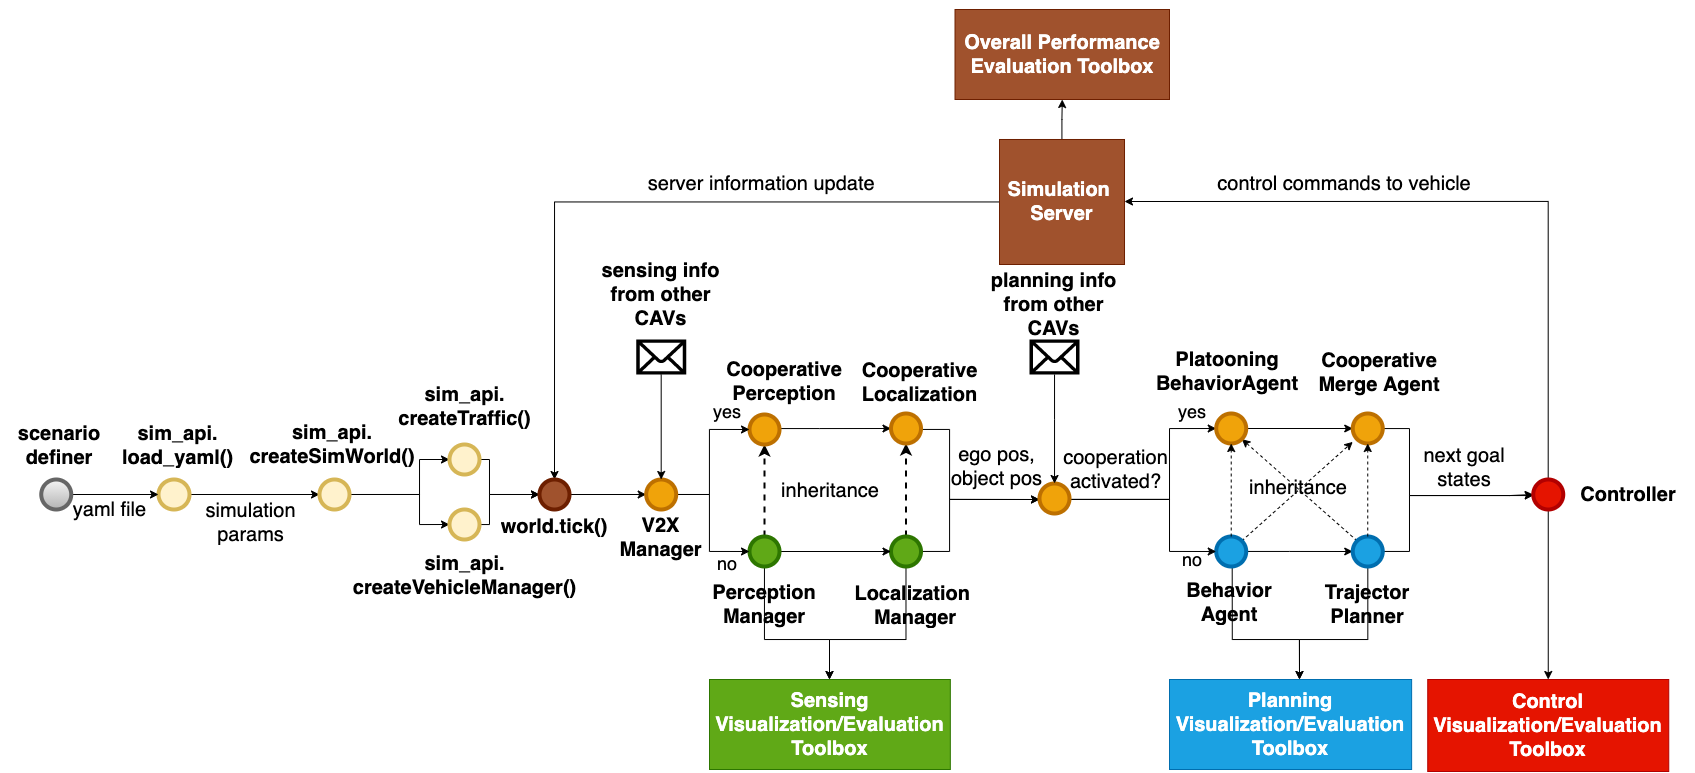
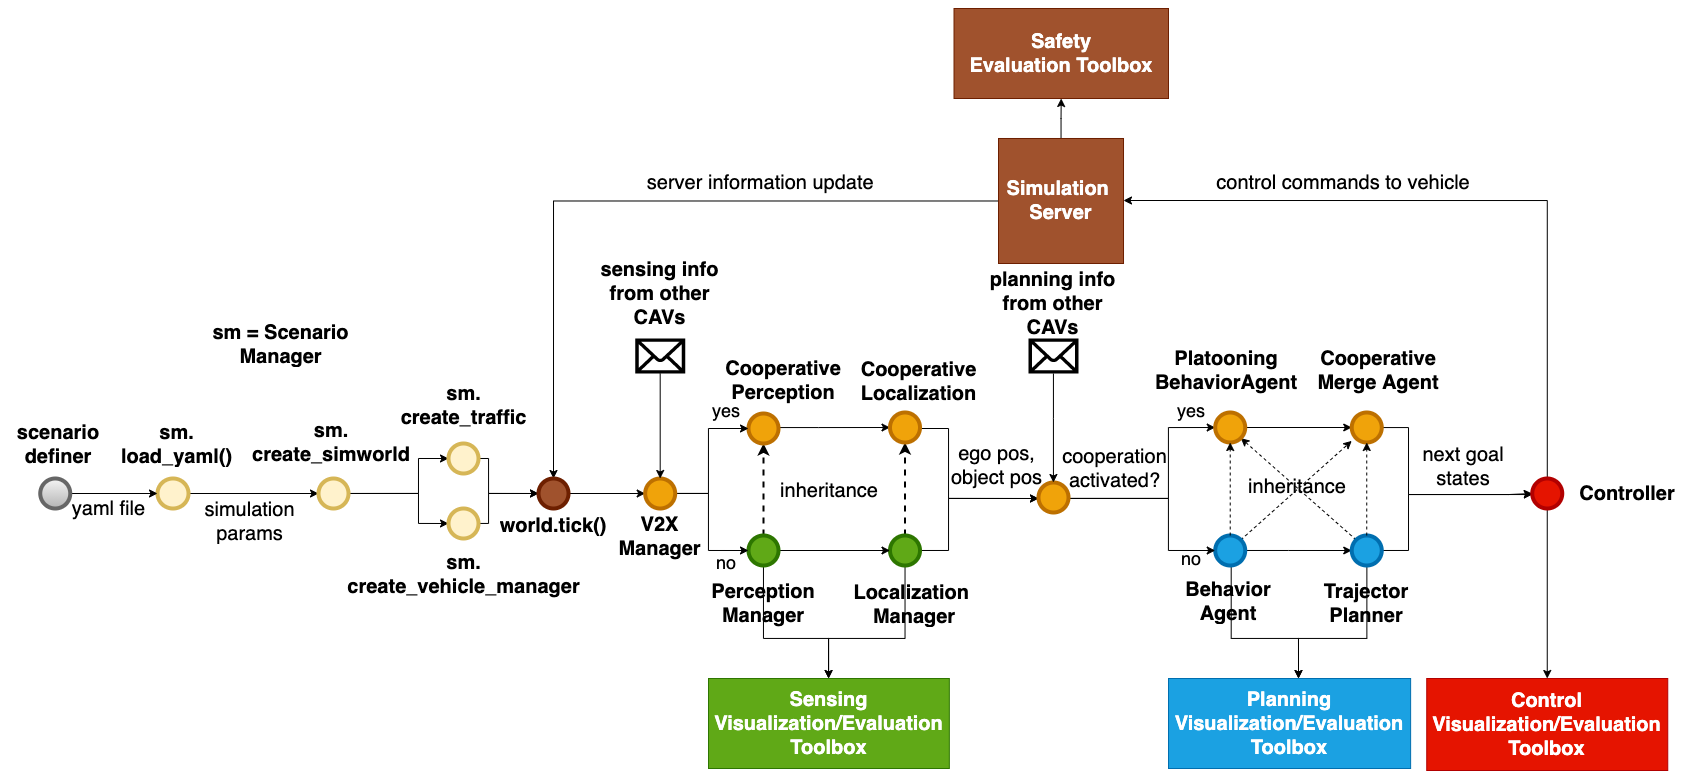
change the md files

diff --git a/docs/md_files/tutorial.md b/docs/md_files/tutorial.md
@@ -35,25 +35,38 @@ and construct the scenario through `opencda sim_api and map_api`.
 import opencda.scenario_testing.utils.sim_api as sim_api
 import opencda.scenario_testing.utils.customized_map_api as map_api
 from opencda.scenario_testing.utils.yaml_utils import load_yaml
+from opencda.scenario_testing.evaluations.evaluate_manager import \
+    EvaluationManager
 
 # Aad yaml file into a dictionary
 scenario_params = load_yaml(config_yaml)
+# Create CAV world object to store all CAV VehicleManager info.
+# this is the key element to achieve cooperation
+cav_world = CavWorld(opt.apply_ml)
+# create scenario manager
+scenario_manager = sim_api.ScenarioManager(scenario_params,
+                                           opt.apply_ml,
+                                           town='Town06',
+                                           cav_world=cav_world)
+# create a list of platoon
+platoon_list = \
+    scenario_manager.create_platoon_manager(
+        map_helper=map_api.spawn_helper_2lanefree,
+        data_dump=False)
 
-# setup the simulation server configuration
-simulation_config = scenario_params['world']
-client, world, carla_map, origin_settings = sim_api.createSimulationWorld(simulation_config, 'town06')
+# create a list of single CAV
+single_cav_list = \
+    scenario_manager.create_vehicle_manager(application=['single'])
 
-# create background traffic in carla
-traffic_manager, bg_veh_list = sim_api.createTrafficManager(client, world,
-                                                            scenario_params['carla_traffic_manager'])
+# create background traffic under Carla
+traffic_manager, bg_veh_list = \
+    scenario_manager.create_traffic_carla()
 
-# create platoon members
-platoon_list, cav_world = sim_api.createPlatoonManagers(world, carla_map, scenario_params, opt.apply_ml)
-
-# create single cavs
-single_cav_list = sim_api.createVehicleManager(world, scenario_params, ['platooning'], cav_world,
-                                               carla_map)
-
+# create the evaluation manager
+eval_manager = \
+    EvaluationManager(scenario_manager.cav_world,
+                      script_name='platoon_joining_town06_carla',
+                      current_time=scenario_params['current_time'])
 
 
 ```

diff --git a/README.md b/README.md
@@ -14,7 +14,7 @@ We welcome your contributions!
 Users could refer to [OpenCDA documentation](https://opencda-documentation.readthedocs.io/en/latest/) to see more details.
 
 ## Major Components
-![teaser](docs/images/OpenCDA_diagrams.png )
+![teaser](docs/md_files/images/OpenCDA_diagrams.png )
 
 OpenCDA  is composed of three major component: <strong>Cooperative Driving System</strong>,  <strong>Co-Simulation Tools</strong>,
 and  <strong>Scenario Manager</strong>.
@@ -22,7 +22,7 @@ and  <strong>Scenario Manager</strong>.
 Check the [OpenCDA Introduction](https://opencda-documentation.readthedocs.io/en/latest/OpenCDA_introduction/) for more details.
 
 ## Get Started
-![teaser](docs/images/platoon_joining_2lanefree_complete.gif)
+![teaser](docs/md_files/images/platoon_joining_2lanefree_complete.gif)
 ### Users Guide
 1. [Installation](https://opencda-documentation.readthedocs.io/en/latest/OpenCDA_installation)
 1. [Quick Start](https://opencda-documentation.readthedocs.io/en/latest/OpenCDA_getstarted)
@@ -39,7 +39,8 @@ We welcome your contributions.
  If you are using our framework for your development, please cite the following paper:
  ```bibtex
 @inproceedings{xu2021opencda,
-title={OpenCDA: An Open Cooperative Driving Automation Framework Integrated with Multi-resolution Simulations},
+title={OpenCDA:  An  Open  Cooperative  Driving  Automation  Framework
+Integrated  with  Co-Simulation},
 author={Runsheng Xu, Yi Guo, Xu Han, Xin Xia, Jiaqi Ma},
 booktitle={2021 IEEE Intelligent Transportation Systems Conference (ITSC)},
 year={2021}

diff --git a/docs/md_files/yaml_define.md b/docs/md_files/yaml_define.md
@@ -23,9 +23,14 @@ carla_traffic_manager: # define the background traffic controled by carla.Traffi
   global_speed_perc: -100 # define the default speed of traffic flow
   auto_lane_change: false # whether lane change is allowed in the traffic flow
   ...: # some other parameters
+  random: true # whether the car models of traffic flow are random selected
   vehicle_list: # define all human drive vehicles' position and individual speed
     - spawn_position: [x,y,z,pitch,yaw,roll]
       vehicle_speed_perc: -200 # this speed will overwrite the default traffic flow speed
+  # this is another we to define carla traffic flow by giving the number of
+  # spawn vehicles and the spawn range.
+  # vehicle_list : 10 
+  # range: [x1, y1, x2, y2]
     
 platoon_base: &platoon_base # define the platoon default characteristics
   max_capacity: 10

diff --git a/docs/modules.rst b/docs/modules.rst
@@ -1,4 +1,4 @@
-opencda
+API Reference
 =======
 
 .. toctree::